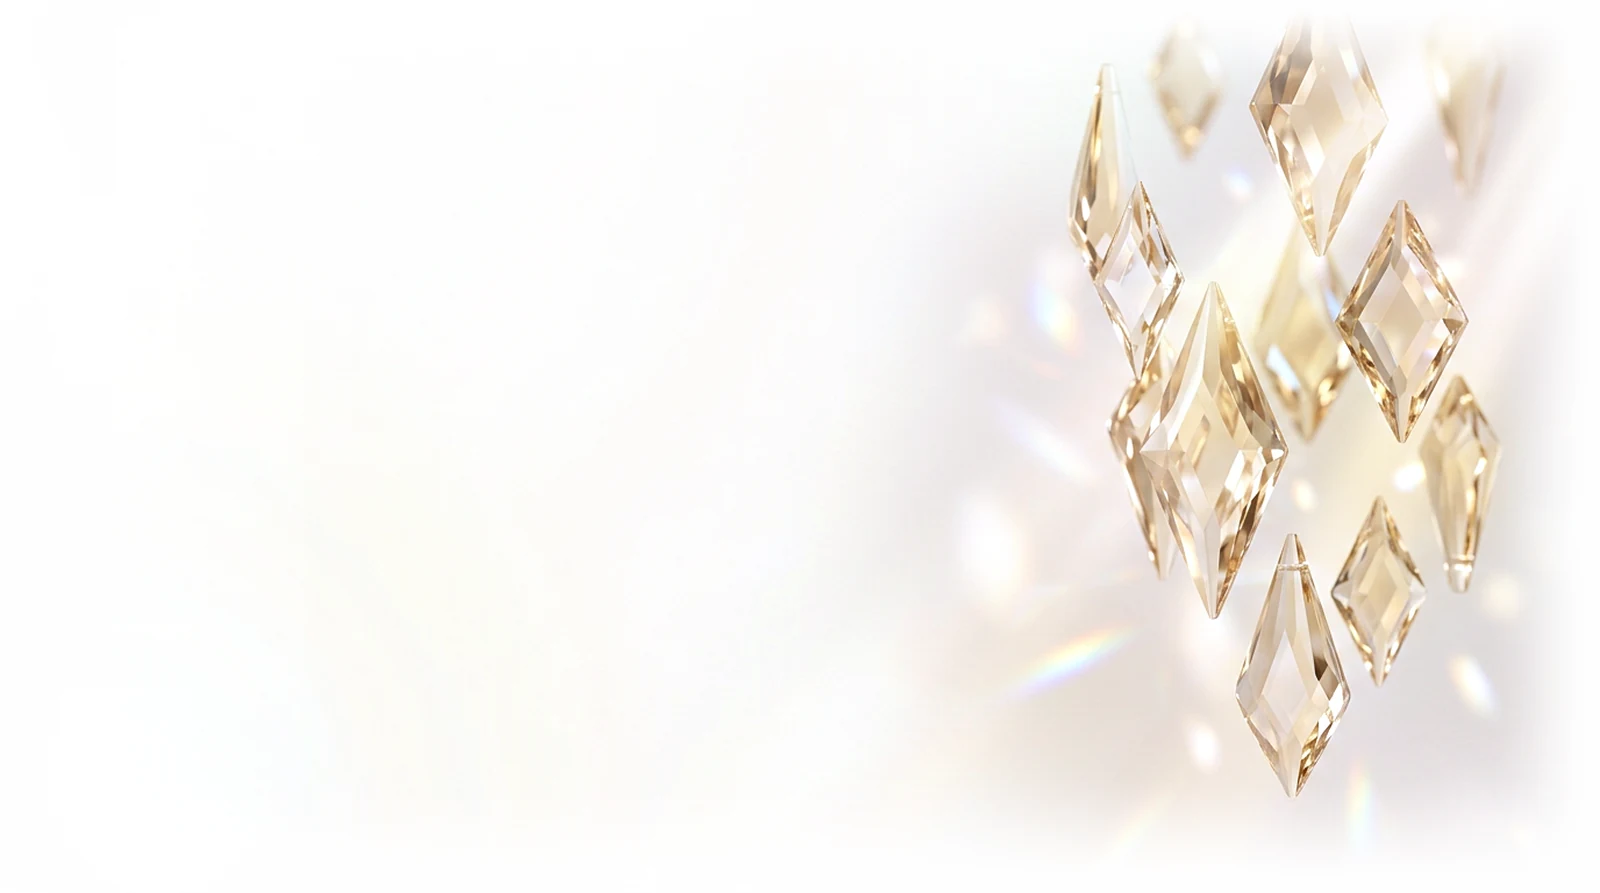
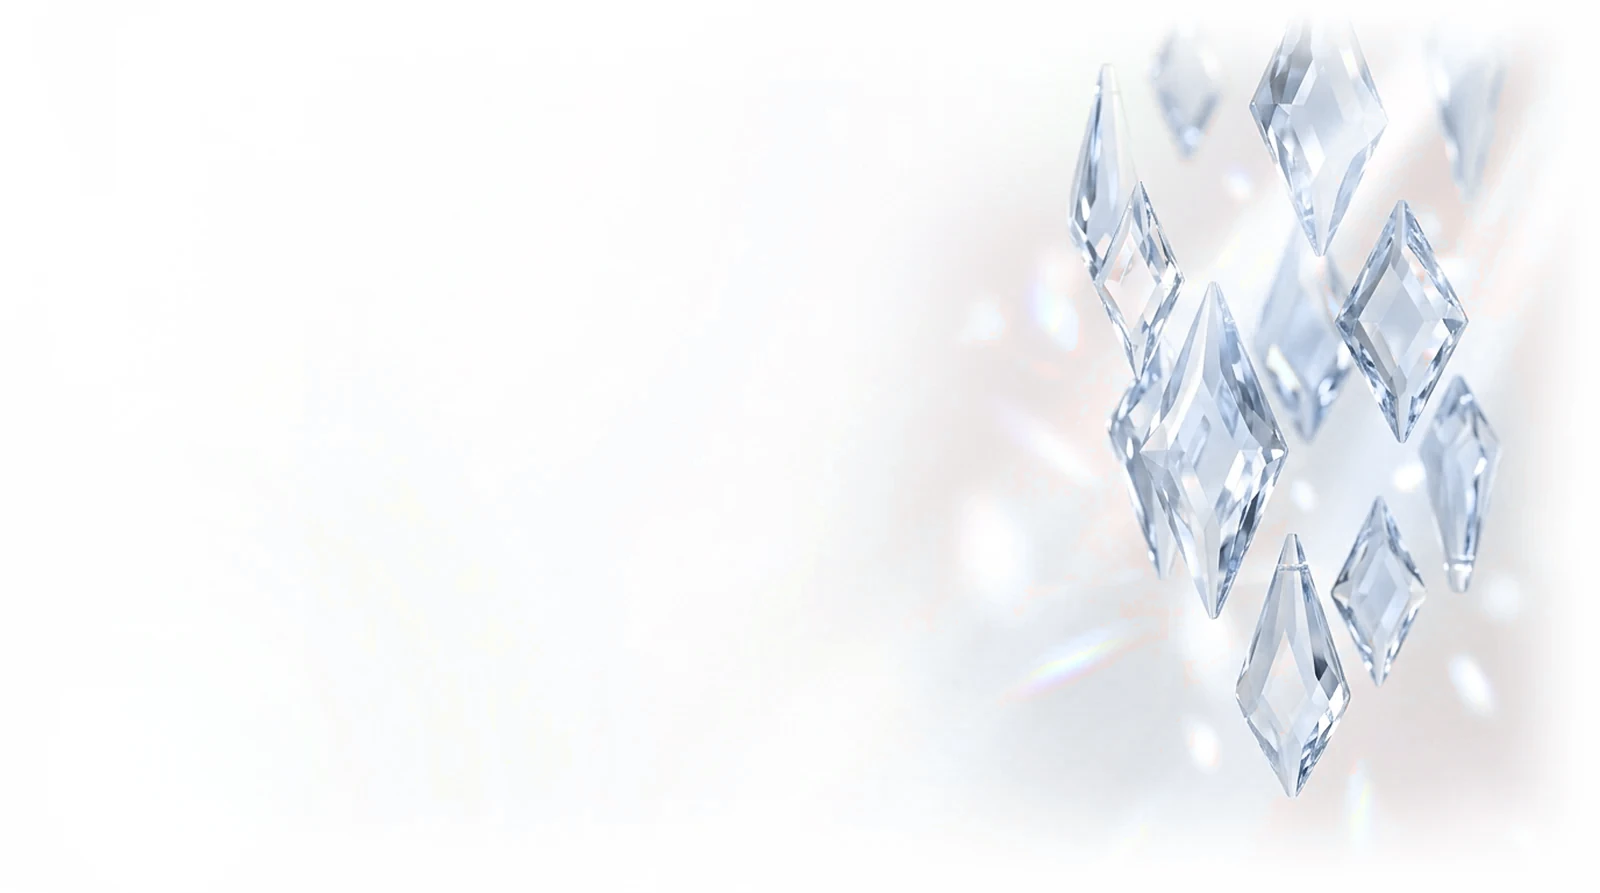
feat(ui): cold brand art (ice crystal), neutral sparkline blue, planet hint plate, forecasts cold, select placeholder

Changed region(s): [[0.6562, 0.0302, 0.9375, 0.9071], [0.625, 0.6954, 0.7188, 0.7559]]

diff --git a/frontend/src/components/PlanetView.css b/frontend/src/components/PlanetView.css
@@ -150,10 +150,11 @@
 .planet-quick-chip.is-active { color: var(--fe-on-active, #F2F5FA); background: var(--fe-glass-active); box-shadow: var(--fe-shadow-active), inset 0 1px 0 rgba(255,255,255,.2); }
 .planet-play-year { position: absolute; z-index: 3; left: 50%; top: 62px; transform: translateX(-50%); padding: 4px 18px; border-radius: 999px; background: var(--planet-glass-strong); box-shadow: var(--planet-glass-shadow), var(--fe-inset-glint); font-size: 28px; font-weight: 600; font-variant-numeric: tabular-nums; letter-spacing: -.02em; pointer-events: none; }
 .planet-stage:not(:has(.planet-quick)) .planet-play-year { top: 14px; }
-/* Подсказка-жест (круг 6): одна тонкая строка текста сверху шара, без плашки и значка, один раз; цвет — графит с белой тенью в 1 px. */
+/* Подсказка-жест (круг 6): одна строка сверху шара на лёгкой стеклянной подложке (на суше голый текст нечитаем), один раз. */
 .planet-gesture-hint {
   position: absolute; z-index: 3; left: 50%; top: 14px; transform: translateX(-50%); max-width: calc(100% - 120px); text-align: center;
-  color: var(--planet-ink); font-size: 13px; font-weight: 500; line-height: 1.3; text-shadow: 0 1px 0 rgba(255,255,255,.9); pointer-events: none;
+  padding: 5px 14px; border-radius: 999px; background: rgba(255,255,255,.72); box-shadow: 0 4px 12px -8px rgba(30,38,56,.35);
+  color: var(--planet-ink); font-size: 13px; font-weight: 500; line-height: 1.3; pointer-events: none;
   animation: planet-hint-in-centered 420ms ease-out both;
 }
 .planet-stage:has(.planet-quick) .planet-gesture-hint { top: 62px; }

diff --git a/frontend/src/components/home/HomeTools.jsx b/frontend/src/components/home/HomeTools.jsx
@@ -245,13 +245,13 @@ function CompareTool() {
         <label className="fe-tool__field" htmlFor={`${id}-a`}>
           <span className="fe-tool__label">{t('z3.tools.cmp.first')}</span>
           <select id={`${id}-a`} className="fe-tool__input" value={firstValue} onChange={(event) => setFirst(event.target.value)} disabled={countries.length < 2}>
-            {countries.length ? countries.map((country) => <option key={country.slug} value={country.slug}>{country.name}</option>) : <option value={firstValue}>{firstValue}</option>}
+            {countries.length ? countries.map((country) => <option key={country.slug} value={country.slug}>{country.name}</option>) : <option value={firstValue}>…</option>}
           </select>
         </label>
         <label className="fe-tool__field" htmlFor={`${id}-b`}>
           <span className="fe-tool__label">{t('z3.tools.cmp.second')}</span>
           <select id={`${id}-b`} className="fe-tool__input" value={secondValue} onChange={(event) => setSecond(event.target.value)} disabled={countries.length < 2}>
-            {countries.length ? countries.map((country) => <option key={country.slug} value={country.slug}>{country.name}</option>) : <option value={secondValue}>{secondValue}</option>}
+            {countries.length ? countries.map((country) => <option key={country.slug} value={country.slug}>{country.name}</option>) : <option value={secondValue}>…</option>}
           </select>
         </label>
       </div>

diff --git a/frontend/src/pages/ForecastsPage.jsx b/frontend/src/pages/ForecastsPage.jsx
@@ -69,14 +69,14 @@ function MiniChart({ item, label }) {
             <stop offset="1" stopColor="#C9A24D" stopOpacity="0.4" />
           </linearGradient>
           <linearGradient id={rayId} x1="0" x2="0" y1="0" y2="1">
-            <stop offset="0" stopColor="#E9CD8E" stopOpacity="0" />
-            <stop offset="0.5" stopColor="#FFF6DA" stopOpacity="0.95" />
-            <stop offset="1" stopColor="#E9CD8E" stopOpacity="0" />
+            <stop offset="0" stopColor="#C9D7EA" stopOpacity="0" />
+            <stop offset="0.5" stopColor="#FFFFFF" stopOpacity="0.95" />
+            <stop offset="1" stopColor="#C9D7EA" stopOpacity="0" />
           </linearGradient>
           <linearGradient id={glowId} x1="0" x2="1" y1="0" y2="0">
-            <stop offset="0" stopColor="#F3E4B8" stopOpacity="0" />
-            <stop offset="0.5" stopColor="#F3E4B8" stopOpacity="0.5" />
-            <stop offset="1" stopColor="#F3E4B8" stopOpacity="0" />
+            <stop offset="0" stopColor="#C9D7EA" stopOpacity="0" />
+            <stop offset="0.5" stopColor="#C9D7EA" stopOpacity="0.5" />
+            <stop offset="1" stopColor="#C9D7EA" stopOpacity="0" />
           </linearGradient>
         </defs>
         <rect className="zb-fc__zone" x={geo.zone.x} y="0" width={geo.zone.width} height={geo.height} rx="6" />

diff --git a/frontend/src/components/Sparkline.jsx b/frontend/src/components/Sparkline.jsx
@@ -1,18 +1,17 @@
 import { useRef, useEffect, useState, useId } from 'react';
-import { CHART_THEME } from '../lib/chartTheme';
 import { SkeletonBox } from './Skeleton';
 import '../styles/k4-charts.css';
 import '../lib/glassChartDefs';
 
 const COLOR_POSITIVE = '#16A34A';
 const COLOR_NEGATIVE = '#DC2626';
-const COLOR_GOLD = CHART_THEME.gold;
-// «Ровно» с известным смыслом — не серый, а приглушённое золото: спарклайн всегда в палитре бренда.
-const COLOR_FLAT = '#B9A474';
+const COLOR_NEUTRAL = '#3D5F9E';
+// «Ровно» с известным смыслом — не серый, а холодный синий: спарклайн всегда в палитре бренда.
+const COLOR_FLAT = '#7C9AC9';
 
 function resolveColor(trend, sentiment) {
-  // Смысл неизвестен — золото, без оценки «хорошо/плохо».
-  if (sentiment === 'neutral') return COLOR_GOLD;
+  // Смысл неизвестен — глубокий синий (круг 6: золото снято, «слишком жёлтый»), без оценки «хорошо/плохо».
+  if (sentiment === 'neutral') return COLOR_NEUTRAL;
 
   if (trend === 'flat') return COLOR_FLAT;
 

diff --git a/frontend/src/styles/zb-forecasts.css b/frontend/src/styles/zb-forecasts.css
@@ -242,7 +242,7 @@
 }
 
 .zb-fc__num--end .zb-fc__num-value {
-  background: linear-gradient(135deg, #6B5224, #A07829 78%);
+  background: linear-gradient(135deg, #1E2638, #2C4A8A 78%);
   -webkit-background-clip: text;
   background-clip: text;
   color: transparent;
@@ -299,7 +299,7 @@
 }
 
 .zb-fc__zone {
-  fill: rgba(201, 162, 77, 0.06);
+  fill: rgba(124, 154, 201, 0.12);
 }
 
 .zb-fc__dot-now {
